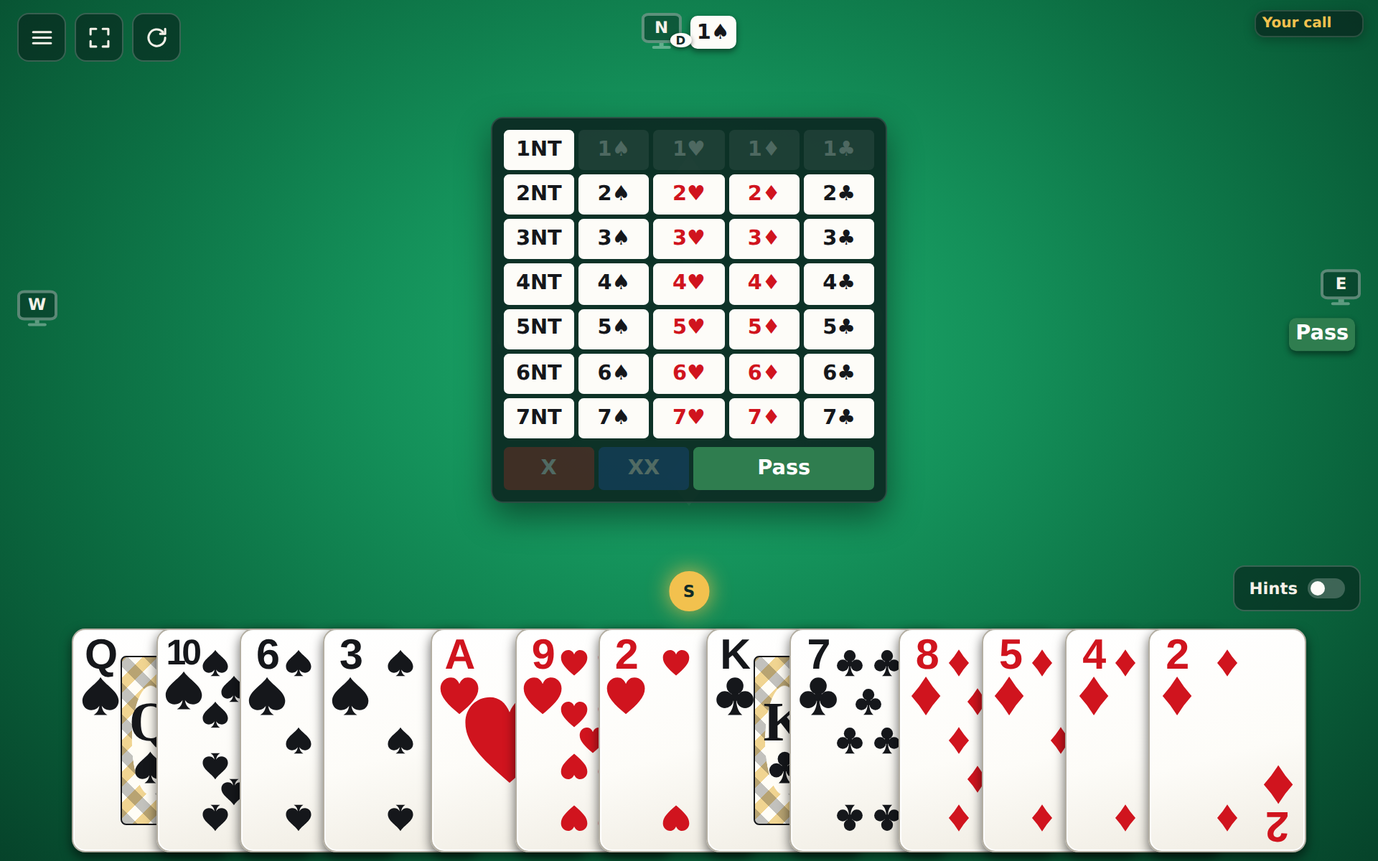
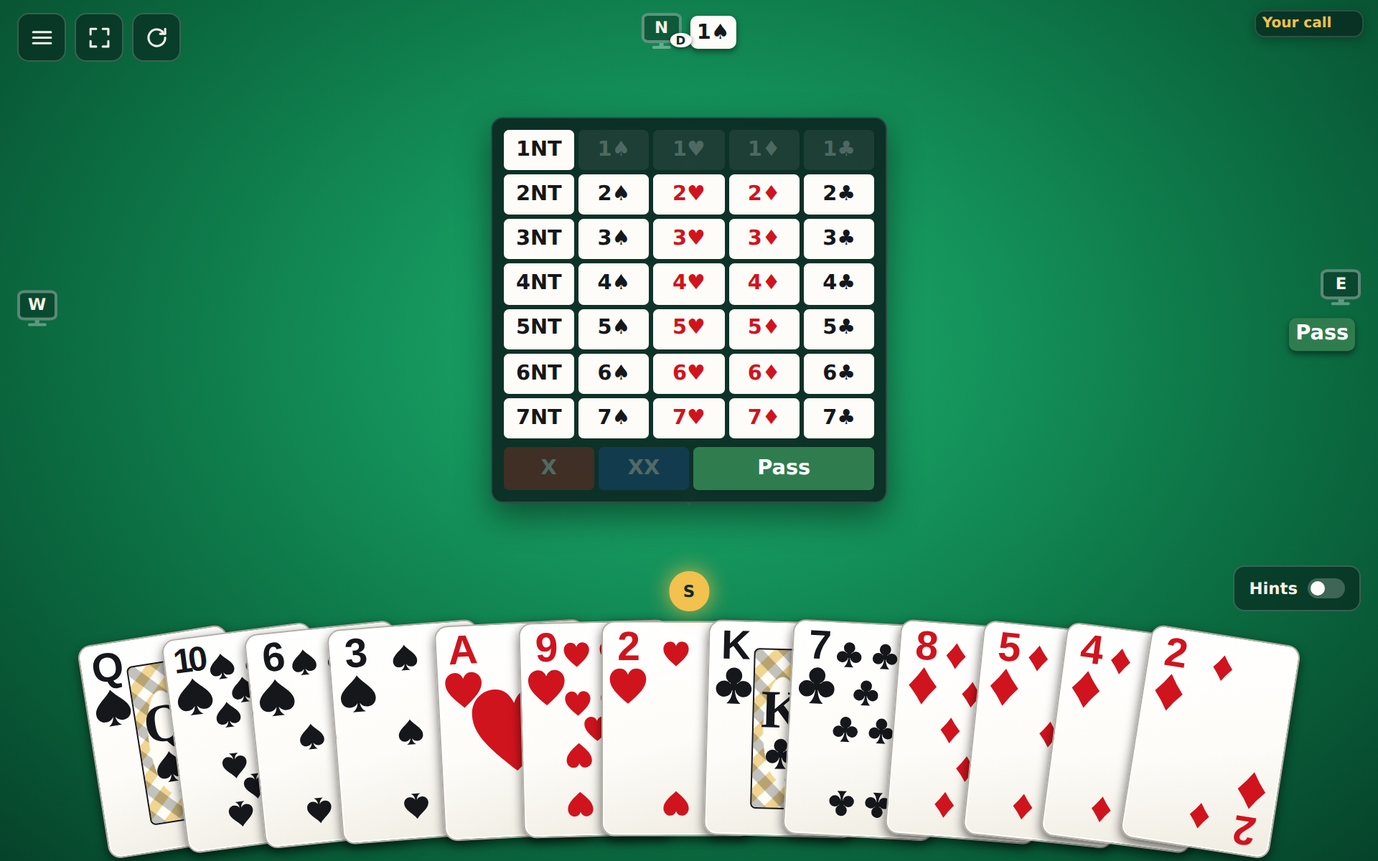
Hold cards in a fan: arc the hand, the held online hand and the card backs
The flat line layout stays as the unscoped base; TableView's handLayout prop
(default fan) sets a hand-layout-* class and the fan rules are scoped under it,
so a Fanned/Line setting can be added later.

Changed region(s): [[0.0312, 0.7092, 0.9688, 1.0]]

diff --git a/apps/client/src/table/TableView.tsx b/apps/client/src/table/TableView.tsx
@@ -23,6 +23,7 @@ import {
   suitSymbols
 } from "./labels.js";
 import { DealAnimation } from "./DealAnimation.js";
+import { defaultHandLayout, fanCardStyle, type HandLayout } from "./handLayout.js";
 
 const tablePositions = ["bottom", "left", "top", "right"] as const;
 const liveTurnPhase = (phase: PublicGame["phase"]) => phase === "auction" || phase === "play";
@@ -73,6 +74,8 @@ export type TableViewProps = {
   tools?: React.ReactNode;               // menu + fullscreen (top-left)
   toolsNote?: React.ReactNode;           // a short note under the tools, clear of the status card
   overlay?: React.ReactNode;             // score panel, review/history controls, hint controls, messages
+  /** How held hands (the hand zone and the backs at hidden seats) are spread: an arcing fan or a flat line. */
+  handLayout?: HandLayout;
 };
 
 const tableWatermark = <svg className="table-watermark" viewBox="0 0 240 240" aria-hidden="true" focusable="false">
@@ -87,7 +90,7 @@ const MIN_PANEL_WIDTH = 320;
 /** The bridge table: status, seats with their calls and dummy, the trick, the bid picker, and the hand zone. */
 export function TableView({
   game, bottomSeat, actingSeat, displayedTrick, showCalls, onToggleCalls, lastTrickOpen, onToggleLastTrick, showBottomHand, fixedSeatHands = false, showBacksAtBottom = false, exposedSeat,
-  queueSeats, queuedCard, onQueue, cardsDisabled = false, bidsDisabled = false, statusText, ariaLabel, boardLabel, botSeats, seatLabel, onBid, onPlay, hintedBid, hintedCards, explainCall, matchScore, revealedHands, dealing = false, tools, toolsNote, overlay
+  queueSeats, queuedCard, onQueue, cardsDisabled = false, bidsDisabled = false, statusText, ariaLabel, boardLabel, botSeats, seatLabel, onBid, onPlay, hintedBid, hintedCards, explainCall, matchScore, revealedHands, dealing = false, tools, toolsNote, overlay, handLayout = defaultHandLayout
 }: TableViewProps): React.JSX.Element {
   const auctionListRef = useRef<HTMLOListElement>(null);
   const phase = game.phase;
@@ -152,14 +155,14 @@ export function TableView({
   const auctionList = game.auction.length ? <ol className="sr-only" ref={auctionListRef} aria-label="Auction calls">{game.auction.map(({ seat, bid }, index) => <li key={`${seat}-${index}`}><span>{seatNames[seat]}</span><strong>{callLabel(bid)}</strong></li>)}</ol> : null;
   const isQueued = (seat: Seat, card: Card) => queuedCard?.seat === seat && cardId(queuedCard.card) === cardId(card);
   const canQueue = (seat: Seat) => phase === "play" && !!onQueue && !!queueSeats?.includes(seat);
-  const queueButton = (seat: Seat, card: Card, className: string) => {
+  const queueButton = (seat: Seat, card: Card, className: string, style?: CSSProperties) => {
     const queued = isQueued(seat, card);
-    return <button type="button" className={`${className} ${queued ? "queued-card" : ""}`} key={cardId(card)} aria-label={`${queued ? "Unqueue" : "Queue"} ${cardLabel(card)}`} title={queued ? "Queued: plays when your turn comes. Click to cancel" : "Queue this card to play when your turn comes"} onClick={() => onQueue?.(seat, card)}>{cardFace(card)}</button>;
+    return <button type="button" className={`${className} ${queued ? "queued-card" : ""}`} key={cardId(card)} style={style} aria-label={`${queued ? "Unqueue" : "Queue"} ${cardLabel(card)}`} title={queued ? "Queued: plays when your turn comes. Click to cancel" : "Queue this card to play when your turn comes"} onClick={() => onQueue?.(seat, card)}>{cardFace(card)}</button>;
   };
-  const tableCard = (card: Card, className: string, label: string) => <span className={`${className} ${isRedSuit(card.suit) ? "red-card" : ""}`} key={cardId(card)} role="img" aria-label={label}>{cardFace(card)}</span>;
+  const tableCard = (card: Card, className: string, label: string, style?: CSSProperties) => <span className={`${className} ${isRedSuit(card.suit) ? "red-card" : ""}`} key={cardId(card)} style={style} role="img" aria-label={label}>{cardFace(card)}</span>;
 
   return (
-    <section className={`table-panel${dealing ? " dealing" : ""}`} aria-label={ariaLabel}>
+    <section className={`table-panel hand-layout-${handLayout}${dealing ? " dealing" : ""}`} aria-label={ariaLabel}>
       <div ref={surfaceRef} className={`table-surface ${revealed ? "hands-revealed" : ""} ${phase === "play" && showCalls ? "calls-shown" : ""} ${sideDummy ? `dummy-on-${sideDummy}` : ""} ${handOnTop ? "hand-on-top" : ""}`} style={sideDummySpan ? { "--dummy-span": sideDummySpan } as CSSProperties : undefined}>
         {tableWatermark}
         <div className={`table-status${contract ? " has-contract" : ""}`}>
@@ -209,6 +212,11 @@ export function TableView({
             : <span className={`seat-auction-call ${callChipClass(bid)}`} key={index}>{compactCallLabel(bid)}</span>)}</span> : null;
           // Beside a face-up hand at a side seat, the calls get their own row under the name, as wide as the hand.
           const callsInHead = !(revealed && (position === "left" || position === "right"));
+          // A hand still held (not dummy, not the face-up hands of a finished deal) along the top or bottom edge is fanned
+          // like the hand zone; dummy and the side seats keep their suit rows, laid out as dummy is on a real table.
+          const fanned = handLayout === "fan" && fixedPlayHands && !revealed && !isDummy && (position === "top" || position === "bottom");
+          const fanOrder = fanned ? handSuitOrder(seatCards).flatMap((suit) => seatCards.filter((card) => card.suit === suit)) : [];
+          const fanStyle = (card: Card) => fanned ? fanCardStyle(handLayout, fanOrder.indexOf(card), fanOrder.length) : undefined;
           const seatCanPlay = fixedPlayHands ? canAct && phase === "play" && shownActor === seat : playFromDummy && seat === dummySeat;
           return <div key={seat} className={`seat seat-${seat} pos-${position} ${isActor ? "active-seat" : ""} ${hasPlayed ? "played-seat" : ""} ${vulnerable ? "vulnerable-seat" : ""} ${isDealer ? "dealer-seat" : ""} ${seatHasCards && !revealed ? "has-dummy" : ""} ${revealed ? "has-revealed-hand" : ""} ${showBacks ? "has-backs" : ""} ${seatHasCards && fixedPlayHands ? "has-fixed-hand" : ""} ${seatHasCards && seatCanPlay ? "playable-dummy" : ""} ${explainedHere ? "explaining-seat" : ""}`}>
             {/* The head row: one line beside a hand spread along the top or bottom, invisible (display: contents) elsewhere. */}
@@ -220,14 +228,14 @@ export function TableView({
             </div>
             {callsInHead ? null : callChips}
             {explainedHere && explainCall ? <p className="call-meaning" role="status"><strong className={callChipClass(explainedHere.bid)}>{compactCallLabel(explainedHere.bid)}</strong> {explainCall.text(explainedHere.index)}</p> : null}
-            {showBacks ? <div className="hidden-hand" aria-hidden="true">{Array.from({ length: held }, (_, index) => <span className="card-back" key={index} />)}</div> : null}
-            {seatHasCards ? <section className={`dummy-table-hand ${fixedPlayHands ? "fixed-seat-hand" : ""}`} aria-label={`${seatNames[seat]}'s ${seat === dummySeat && !revealed ? "dummy " : ""}hand`}>
+            {showBacks ? <div className="hidden-hand" aria-hidden="true">{Array.from({ length: held }, (_, index) => <span className="card-back" key={index} style={fanCardStyle(handLayout, index, held)} />)}</div> : null}
+            {seatHasCards ? <section className={`dummy-table-hand ${fixedPlayHands ? "fixed-seat-hand" : ""} ${fanned ? "fanned-hand" : ""}`} aria-label={`${seatNames[seat]}'s ${seat === dummySeat && !revealed ? "dummy " : ""}hand`}>
               {handSuitOrder(seatCards).map((suit) => {
                 const suitCards = seatCards.filter((card) => card.suit === suit);
                 return suitCards.length ? <div className="dummy-suit-row" key={suit}>{suitCards.map((card) => seatCanPlay
-                  ? <button className={`table-card dummy-card ${isRedSuit(card.suit) ? "red-card" : ""} ${hintedCards?.has(cardId(card)) ? "hinted-card" : ""} ${isQueued(seat, card) ? "queued-card" : ""}`} key={cardId(card)} aria-label={`Play ${cardLabel(card)}`} disabled={cardsDisabled} onClick={() => onPlay?.(seat, card)}>{cardFace(card)}</button>
-                  : canQueue(seat) ? queueButton(seat, card, `table-card dummy-card ${isRedSuit(card.suit) ? "red-card" : ""}`)
-                  : tableCard(card, "table-card dummy-card", cardLabel(card)))}</div> : null;
+                  ? <button className={`table-card dummy-card ${isRedSuit(card.suit) ? "red-card" : ""} ${hintedCards?.has(cardId(card)) ? "hinted-card" : ""} ${isQueued(seat, card) ? "queued-card" : ""}`} key={cardId(card)} style={fanStyle(card)} aria-label={`Play ${cardLabel(card)}`} disabled={cardsDisabled} onClick={() => onPlay?.(seat, card)}>{cardFace(card)}</button>
+                  : canQueue(seat) ? queueButton(seat, card, `table-card dummy-card ${isRedSuit(card.suit) ? "red-card" : ""}`, fanStyle(card))
+                  : tableCard(card, "table-card dummy-card", cardLabel(card), fanStyle(card)))}</div> : null;
               })}
             </section> : null}
           </div>;
@@ -269,10 +277,11 @@ export function TableView({
             {handSeat !== bottomSeat || handIsDummy ? <span className="hand-tag" title={`${seatNames[handSeat]}${handIsDummy ? " · dummy" : ""}`}><span className={`seat-compass ${handIsDummy ? "dummy-compass" : ""}`} aria-hidden="true">{handSeat[0]!.toUpperCase()}</span><span className="sr-only">{seatNames[handSeat]}{handIsDummy ? ", dummy" : ""}</span></span> : null}
             {handCards.map((card, index) => {
               const className = `playing-card ${isRedSuit(card.suit) ? "red-card" : ""} ${index > 0 && handCards[index - 1]!.suit !== card.suit ? "suit-gap" : ""}`;
+              const fan = fanCardStyle(handLayout, index, handCards.length);
               return handIsInteractive && phase === "play"
-                ? <button className={`${className} ${hintedCards?.has(cardId(card)) ? "hinted-card" : ""} ${isQueued(handSeat, card) ? "queued-card" : ""}`} key={cardId(card)} aria-label={`Play ${cardLabel(card)}`} disabled={cardsDisabled} onClick={() => onPlay?.(handSeat, card)}>{cardFace(card)}</button>
-                : canQueue(handSeat) ? queueButton(handSeat, card, className)
-                : tableCard(card, `${className} auction-card`, cardLabel(card));
+                ? <button className={`${className} ${hintedCards?.has(cardId(card)) ? "hinted-card" : ""} ${isQueued(handSeat, card) ? "queued-card" : ""}`} key={cardId(card)} style={fan} aria-label={`Play ${cardLabel(card)}`} disabled={cardsDisabled} onClick={() => onPlay?.(handSeat, card)}>{cardFace(card)}</button>
+                : canQueue(handSeat) ? queueButton(handSeat, card, className, fan)
+                : tableCard(card, `${className} auction-card`, cardLabel(card), fan);
             })}
           </div>
         </section> : null}

diff --git a/apps/client/src/styles.css b/apps/client/src/styles.css
@@ -348,6 +348,55 @@ button.dummy-card { cursor: pointer; transition: transform .12s ease; }
 .pos-right .hidden-hand { align-self: flex-end; }
 .pos-left .hidden-hand { align-self: flex-start; }
 
+/* ---------- Fanned hands (hand-layout-fan) ---------- */
+/* The line rules above lay a hand flat; with the fan layout each card keeps its place in that row or column and is then
+   tilted about the edge nearest its holder and bowed toward the centre of the table, as a hand is held at a real table.
+   --fan-p is the card's place in a full 13-card fan (-1 … 1, set by handLayout.ts), so every hand bends on one curve;
+   --fan-spread is the tilt of an outermost card and --fan-arc how far the middle bows in. Cards only move inward from
+   the line layout (the middle comes forward, the edges stay put), so a fan needs no more room than the row it replaces
+   beyond the small tilt of its outer cards, which the slightly smaller steps and cards below absorb. */
+.hand-layout-fan .hand-panel { --h: calc(25 * var(--u)); --step: min(calc(11 * var(--u)), calc((100vw - 43 * var(--u)) / 12)); }
+.online-table .hand-layout-fan .hand-panel { --h: calc(19.5 * var(--u)); --step: min(calc(13 * var(--u)), calc((94vw - 20 * var(--u)) / 12)); }
+.hand-layout-fan .cards-row { --fan-spread: 9deg; --fan-arc: calc(var(--h) * .055); }
+/* The raise (hover, hint, queued) is along the card's own tilt, so a lifted card slides out of the fan, not sideways. */
+.hand-layout-fan .cards-row .playing-card,
+.hand-layout-fan .cards-row .playing-card:is(:hover, .hinted-card, .queued-card),
+.hand-layout-fan .cards-row button.playing-card.queued-card:hover:not(:disabled) {
+  transform-origin: 50% 100%;
+  transform: translateY(calc((var(--fan-p, 0) * var(--fan-p, 0) - 1) * var(--fan-arc))) rotate(calc(var(--fan-p, 0) * var(--fan-spread))) translateY(calc(-1 * var(--raise, 0px)));
+}
+.hand-layout-fan .cards-row .playing-card.hinted-card { --raise: calc(1.6 * var(--u)); }
+@media (hover: hover) { .hand-layout-fan .cards-row button.playing-card:hover:not(:disabled) { --raise: calc(2.5 * var(--u)); } }
+.hand-layout-fan .cards-row .playing-card.queued-card, .hand-layout-fan .cards-row button.playing-card.queued-card:hover:not(:disabled) { --raise: calc(3 * var(--u)); }
+/* Backs at hidden seats: the fan opens toward the centre from the seat's own edge of the table. A side fan bows by
+   moving its ends out toward the window edge, never its middle in toward the trick and anything centred over it. */
+/* A held hand at a fixed seat (online play) fans the same way across its suit groups. Its steps leave out --fan-room,
+   the width its outer cards tilt past the row, and a margin on each side takes the bowed middle and the tilted corners of
+   the outer cards, so the fan stays in the box the line layout gives the hand. */
+.hand-layout-fan .fanned-hand { --fan-spread: 9deg; --fan-arc: calc(var(--h) * .055); --fan-room: calc(var(--h) * .3); }
+.hand-layout-fan .fanned-hand { margin-block: var(--fan-arc); }
+.hand-layout-fan .pos-bottom .fanned-hand .dummy-card,
+.hand-layout-fan .pos-bottom .fanned-hand .dummy-card:is(:hover, .queued-card),
+.hand-layout-fan .pos-bottom .fanned-hand button.dummy-card.queued-card:hover:not(:disabled) {
+  transform-origin: 50% 100%;
+  transform: translateY(calc((var(--fan-p, 0) * var(--fan-p, 0) - 1) * var(--fan-arc))) rotate(calc(var(--fan-p, 0) * var(--fan-spread))) translateY(calc(-1 * var(--raise, 0px)));
+}
+.hand-layout-fan .pos-top .fanned-hand .dummy-card,
+.hand-layout-fan .pos-top .fanned-hand .dummy-card:is(:hover, .queued-card),
+.hand-layout-fan .pos-top .fanned-hand button.dummy-card.queued-card:hover:not(:disabled) {
+  transform-origin: 50% 0;
+  transform: translateY(calc((1 - var(--fan-p, 0) * var(--fan-p, 0)) * var(--fan-arc))) rotate(calc(var(--fan-p, 0) * var(--fan-spread) * -1)) translateY(var(--raise, 0px));
+}
+@media (hover: hover) { .hand-layout-fan .fanned-hand button.dummy-card:hover:not(:disabled) { --raise: calc(1.2 * var(--u)); } }
+.hand-layout-fan .fanned-hand .dummy-card.queued-card, .hand-layout-fan .fanned-hand button.dummy-card.queued-card:hover:not(:disabled) { --raise: calc(1.6 * var(--u)); }
+/* Side columns of backs keep clear of the seat's name above them. */
+.hand-layout-fan .pos-left .hidden-hand, .hand-layout-fan .pos-right .hidden-hand { margin-block: calc(var(--h) * .12); }
+.hand-layout-fan .hidden-hand { --fan-spread: 10deg; --fan-arc: calc(var(--h) * .09); }
+.hand-layout-fan .pos-top .card-back { transform-origin: 50% 0; transform: translateY(calc((1 - var(--fan-p, 0) * var(--fan-p, 0)) * var(--fan-arc))) rotate(calc(var(--fan-p, 0) * var(--fan-spread) * -1)); }
+.hand-layout-fan .pos-bottom .card-back { transform-origin: 50% 100%; transform: translateY(calc((var(--fan-p, 0) * var(--fan-p, 0) - 1) * var(--fan-arc))) rotate(calc(var(--fan-p, 0) * var(--fan-spread))); }
+.hand-layout-fan .pos-left .card-back { transform-origin: 0 50%; transform: translateX(calc(var(--fan-p, 0) * var(--fan-p, 0) * var(--fan-arc) * -1)) rotate(calc(var(--fan-p, 0) * var(--fan-spread))); }
+.hand-layout-fan .pos-right .card-back { transform-origin: 100% 50%; transform: translateX(calc(var(--fan-p, 0) * var(--fan-p, 0) * var(--fan-arc))) rotate(calc(var(--fan-p, 0) * var(--fan-spread) * -1)); }
+
 /* ---------- Centre of the table ---------- */
 .trick-area, .last-trick-spot { --h: calc(19 * var(--u)); --dx: calc(11 * var(--u)); --dy: calc(8 * var(--u)); }
 .trick-area { position: absolute; z-index: 2; inset: 0; pointer-events: none; }
@@ -618,19 +667,19 @@ button.dummy-card { cursor: pointer; transition: transform .12s ease; }
 .online-table .dummy-on-left { --bottom-left: var(--side-dummy); }
 .online-table .dummy-on-right { --bottom-left: var(--hint-room); --bottom-right: var(--side-dummy); }
 .online-table .pos-bottom.has-fixed-hand { right: var(--bottom-right); left: var(--bottom-left); transform: none; }
-.online-table .pos-bottom .dummy-table-hand { --step: max(calc(2.6 * var(--u)), calc((100vw - var(--bottom-left) - var(--bottom-right) - 42 * var(--u)) / 9)); }
+.online-table .pos-bottom .dummy-table-hand { --step: max(calc(2.6 * var(--u)), calc((100vw - var(--bottom-left) - var(--bottom-right) - 42 * var(--u) - var(--fan-room, 0px)) / 9)); }
 .online-table.play-layout .hint-controls p { max-width: calc(var(--hint-room) - 2 * var(--u)); }
 .online-table .table-status { max-width: calc(25 * var(--u)); }
 .online-table .table-tools-row { flex-direction: column; align-items: flex-start; }
 .online-table .hand-on-top .pos-top.has-fixed-hand { right: calc(28 * var(--u)); left: var(--tools-room); width: auto; transform: none; }
-.online-table .hand-on-top .pos-top .dummy-table-hand { --step: max(calc(2.6 * var(--u)), calc((100vw - var(--tools-room) - 70 * var(--u)) / 9)); }
+.online-table .hand-on-top .pos-top .dummy-table-hand { --step: max(calc(2.6 * var(--u)), calc((100vw - var(--tools-room) - 70 * var(--u) - var(--fan-room, 0px)) / 9)); }
 .online-table .table-surface.dummy-on-right .hint-controls { right: auto; left: calc(2 * var(--u)); align-items: flex-start; }
 .online-table .table-surface.dummy-on-right .hint-controls p { text-align: left; }
 /* Tall, narrow windows: your hand takes the full width with larger cards, in the bidding and the play alike, and the
    Hints corner moves up above it instead of taking room beside it. */
 @media (max-aspect-ratio: 4/5) {
   .online-table .table-surface, .online-table .dummy-on-left, .online-table .dummy-on-right { --bottom-left: calc(2 * var(--u)); --bottom-right: calc(2 * var(--u)); --own-h: calc(22 * var(--u)); }
-  .online-table .pos-bottom .dummy-table-hand { --h: var(--own-h); --step: max(calc(2.6 * var(--u)), calc((100vw - 4 * var(--u) - 4 * .7 * var(--own-h) - 2.4 * var(--u)) / 9)); }
+  .online-table .pos-bottom .dummy-table-hand { --h: var(--own-h); --step: max(calc(2.6 * var(--u)), calc((100vw - 4 * var(--u) - 4 * .7 * var(--own-h) - 2.4 * var(--u) - var(--fan-room, 0px)) / 9)); }
   .online-table .hint-controls { bottom: calc(var(--own-h) + 9 * var(--u)); }
 }
 .online-seat-name { overflow: hidden; text-overflow: ellipsis; white-space: nowrap; }

diff --git a/apps/client/src/table/TableView.test.tsx b/apps/client/src/table/TableView.test.tsx
@@ -129,3 +129,32 @@ describe("bot seat badges", () => {
     expect(container.querySelector(".seat-south .seat-compass")!.classList.contains("bot-compass")).toBe(false);
   });
 });
+
+describe("hand layout", () => {
+  const fanOf = (element: Element | null | undefined) => (element as HTMLElement | null | undefined)?.style.getPropertyValue("--fan-p");
+
+  it("fans the held hand and the backs by default, but not dummy", () => {
+    const { container } = renderTable(publicGame(afterOpeningLead(), ["north", "south"]));
+    expect(container.querySelector(".table-panel")?.classList).toContain("hand-layout-fan");
+    const held = [...container.querySelectorAll(".seat-north .fanned-hand .table-card")];
+    expect(held).toHaveLength(13);
+    expect(held.map(fanOf)).toEqual(["-1.0000", "-0.8333", "-0.6667", "-0.5000", "-0.3333", "-0.1667", "0.0000", "0.1667", "0.3333", "0.5000", "0.6667", "0.8333", "1.0000"]);
+    expect(container.querySelector(".seat-south .dummy-table-hand")?.classList).not.toContain("fanned-hand");
+    expect(fanOf(container.querySelector(".seat-south .table-card"))).toBe("");
+    expect(fanOf(container.querySelector(".seat-east .card-back"))).toBe("-0.9167");
+  });
+
+  it("lays every hand in a line when asked", () => {
+    const { container } = renderTable(publicGame(afterOpeningLead(), ["north", "south"]), { handLayout: "line" });
+    expect(container.querySelector(".table-panel")?.classList).toContain("hand-layout-line");
+    expect(container.querySelector(".fanned-hand")).toBeNull();
+    expect(container.querySelectorAll("[style*='--fan-p']")).toHaveLength(0);
+  });
+
+  it("fans the hand zone", () => {
+    const { container } = renderTable(publicGame(newGame(), ["north"]), { showBottomHand: true, fixedSeatHands: false });
+    const cards = [...container.querySelectorAll(".hand-zone .playing-card")];
+    expect(cards).toHaveLength(13);
+    expect([fanOf(cards[0]), fanOf(cards[12])]).toEqual(["-1.0000", "1.0000"]);
+  });
+});

diff --git a/apps/client/src/table/handLayout.ts b/apps/client/src/table/handLayout.ts
@@ -1,0 +1,30 @@
+import type { CSSProperties } from "react";
+
+/**
+ * How a held hand is spread on the table. "fan" arcs the cards around a point behind the seat, as a hand is held at a
+ * real table; "line" lays them flat in a row (top and bottom) or column (sides). The table carries the choice as a
+ * `hand-layout-*` class, so every line rule in styles.css stays as it is and the fan rules are scoped beside it.
+ */
+export type HandLayout = "fan" | "line";
+
+export const handLayouts: readonly HandLayout[] = ["fan", "line"];
+export const defaultHandLayout: HandLayout = "fan";
+
+/** Half a full 13-card hand: the outermost card of a full hand sits at ±1, so every hand bends with the same curve. */
+const fullHandHalf = 6;
+
+/**
+ * A card's place in the fan, from -1 (first card of a full hand) through 0 (the middle) to 1 (last card), as the
+ * `--fan-p` custom property. Styles turn it into the card's tilt and its drop along the arc; a short hand keeps the
+ * same curve and simply spans less of it.
+ */
+export function fanPosition(index: number, count: number): number {
+  if (count <= 1) return 0;
+  return (index - (count - 1) / 2) / fullHandHalf;
+}
+
+/** The inline style that places one card in a fanned hand, or nothing when the hand is laid out in a line. */
+export function fanCardStyle(layout: HandLayout, index: number, count: number): CSSProperties | undefined {
+  if (layout !== "fan") return undefined;
+  return { "--fan-p": fanPosition(index, count).toFixed(4) } as CSSProperties;
+}

diff --git a/apps/client/src/table/handLayout.test.ts b/apps/client/src/table/handLayout.test.ts
@@ -1,0 +1,22 @@
+import { describe, expect, it } from "vitest";
+import { defaultHandLayout, fanCardStyle, fanPosition } from "./handLayout.js";
+
+describe("fan positions", () => {
+  it("puts a full hand's outer cards at ±1 and its middle card at 0", () => {
+    expect(fanPosition(0, 13)).toBe(-1);
+    expect(fanPosition(6, 13)).toBe(0);
+    expect(fanPosition(12, 13)).toBe(1);
+  });
+
+  it("keeps a short hand on the same curve, nearer the middle", () => {
+    expect(fanPosition(0, 4)).toBeCloseTo(-0.25);
+    expect(fanPosition(3, 4)).toBeCloseTo(0.25);
+    expect(fanPosition(0, 1)).toBe(0);
+  });
+
+  it("styles cards only in the fan layout, which is the default", () => {
+    expect(defaultHandLayout).toBe("fan");
+    expect(fanCardStyle("fan", 12, 13)).toEqual({ "--fan-p": "1.0000" });
+    expect(fanCardStyle("line", 12, 13)).toBeUndefined();
+  });
+});

diff --git a/CHANGES.md b/CHANGES.md
@@ -2,6 +2,7 @@
 
 ## Unreleased
 
+- **Cards are held in a fan.** Your hand now arcs like a hand held at a real table: each card tilts a little from the middle and the middle bows up, with the cards overlapping as tightly as before. Card backs at the hidden seats fan the same way, opening toward the centre of the table from the top and from each side. Online, your own hand fans across its suit groups too, both at the bottom and along the top when you declare from dummy. Dummy and the face-up hands at the end of a deal keep their suit rows, laid out as dummy is on a real table. The fan fits in the space the flat row used, so it never adds a scrollbar or reaches the bidding box, the claim panel or the result panel. A raised card (on hover, as a hint or when queued) lifts out along its own tilt. The flat layout is kept in the code behind one switch, so a Fanned/Line setting can be added later. The README screenshots show the fan.
 - **Hands played on the bot leaderboard.** Next to boards, the leaderboard now shows how many hands each bot has played ("88 boards · 176 hands") in the lobby panel and as a **Hands** column on the full page. A board is one deal: every table in a round plays it, and the rating compares the tables' results on it, so with two tables each bot plays every board twice. On a phone the counts wrap under each other instead of squeezing the bots' names. Preview 38 shows it.
 - **Long names keep the result panel wide.** A seat name can be up to 24 characters (your own bot characters) or longer for a stand-in ("bot playing for …"). When every hand is face up, a long name at a side seat used to stretch that seat, so the result panel was squeezed to about a third of the table and cut its scorecard and buttons; on a tablet held upright it gave up and covered the side hands. Side-seat names now wrap onto at most two lines beside their hand (hover for the full name), and the scorecard columns shrink with the panel. Preview 15 (Rubber won) now has West as Annabelle Fitzgerald, as long as a player name goes.
 - **The result panel no longer covers any seat, and a won rubber stands out.** With every hand face-up at the end of a deal, the panel with the contract, scorecard and buttons used to judge the room beside it from card sizes alone, so a long seat label could end up under it. In one game, West's "Ania · away · HCP" was covered. The table now measures all four seats (cards, names, tags, high-card points and calls) and centres the panel in the space between them. On a phone held upright, where there is no room between the side hands, it spans the table over them and stays clear of the top and bottom seats. When a rubber is won, "E–W win the rubber 2–1" sits on a gold banner that pulses six times and then stays lit (steady if your system asks for reduced motion). The games score never breaks across lines, and the five buttons take a row under the whole card. Preview 15 (Rubber won) now has West as a player who has stepped away, to show it.

diff --git a/TODO.md b/TODO.md
@@ -18,6 +18,10 @@ Solo PBN board sets against the field shipped on 2026-11-13 (see [TODO-archive.m
 - [x] Named bots: players' own saved characters that play differently (`docs/superpowers/specs/2026-11-25-bot-traits-design.md`). Parts 1–3 are done: six trait dials with the old aggressiveness presets preserved; own characters in solo with an editor, results and account sync (migration 0005); and own characters at online tables, with owner-only result attribution.
 - [ ] Release continuous bot benchmarks: `0006_bot_benchmarks.sql` was applied and `BENCHMARK_ADMIN_ACCOUNT_IDS` configured in production on 2026-11-26, and the Worker/DO scheduler is deployed. Verified on production on 2026-11-26: the scheduler queues rounds on its own one at a time (round 1 at 16:25, round 2 at 16:55 UTC), the benchmark admin API refuses signed-out requests (401) and signed-in accounts outside the allowlist (403), generated boards have public replays, and an imported PBN job (test profiles, retired afterwards) kept its tables unlisted and unwatchable, published scores only (`private-import`, no replay, no cards in any public endpoint) and showed deal and play to the admin only. Remaining: review rating calibration after at least one full 12-round rotation. Task implementation and local tests are in `docs/superpowers/plans/2026-11-25-bot-benchmark-leaderboards.md`; live operation is not yet verified.
 
+## Table
+
+- [ ] Add a Fanned/Line setting for how hands are spread. Both layouts are implemented: `TableView`'s `handLayout` prop (default `"fan"`, from `apps/client/src/table/handLayout.ts`) sets a `hand-layout-*` class, the fan rules in `styles.css` are scoped under `.hand-layout-fan`, and the line rules are the unscoped base. Remaining: a remembered setting in solo Settings and the online table menu, passed to every `TableView`.
+
 ## Online multiplayer
 
 - [ ] Let external bots play ContractPlay through a documented API and/or MCP server. Start with a protocol-neutral, authenticated bot identity and explicit table/seat permissions; expose table discovery or creation, joining a seat, receiving only that seat's legal view, submitting validated calls/cards/claims, and observing table updates. Keep action validation and hidden-hand rules in the server/core boundary, with rate limits, disconnect/reconnect behavior, and clear ownership of bot credentials. Define whether MCP wraps the same API or is a separate adapter, then ship a minimal end-to-end bot example and integration guidance.
